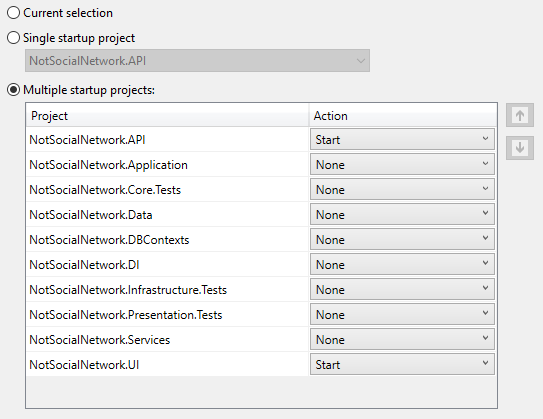
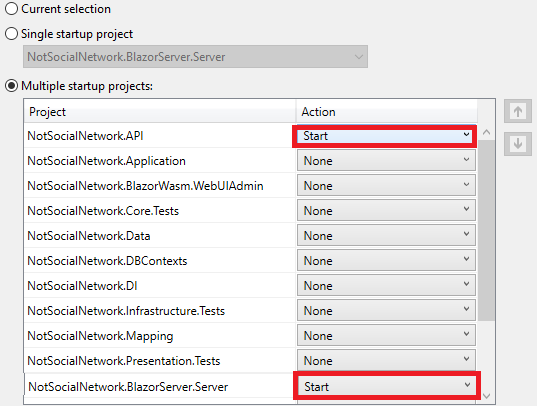
Update instruction for vs start

Changed region(s): [[0.0, 0.0, 1.0, 1.0]]

diff --git a/Docs/README.md b/Docs/README.md
@@ -101,7 +101,7 @@ docker-compose up
 
 * In the main root of the project open properties
 * Choose Multiple startup projects
-* Choose NotSocialNetwork.API (start) and NotSocialNetwork.UI (start), as shown in the screenshot:
+* Choose NotSocialNetwork.API (start) and NotSocialNetwork.BlazorServer.Server (start), as shown in the screenshot:
 ![MultipleStartupProjects](ImgForReadme/StartProject/MultipleStartupProjects.png)
 * Start project
 
